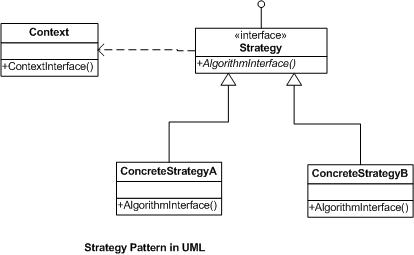
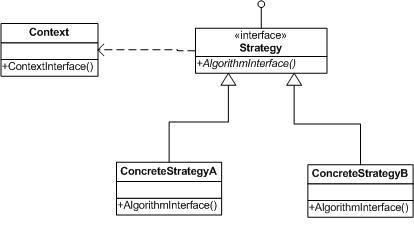
change image size for strategy pattern readme

diff --git a/strategy-pattern/README.md b/strategy-pattern/README.md
@@ -12,7 +12,7 @@ interface for the type of car engine, we can implement as many type of engines a
 the `EngineStrategy` class itself.
 
 <p align="center">
-    <img width="300" src="/strategy-pattern/images/StrategyPattern.jpg">
+    <img width="500" src="/strategy-pattern/images/StrategyPattern.jpg">
 </p>
 
 ## Running the app
